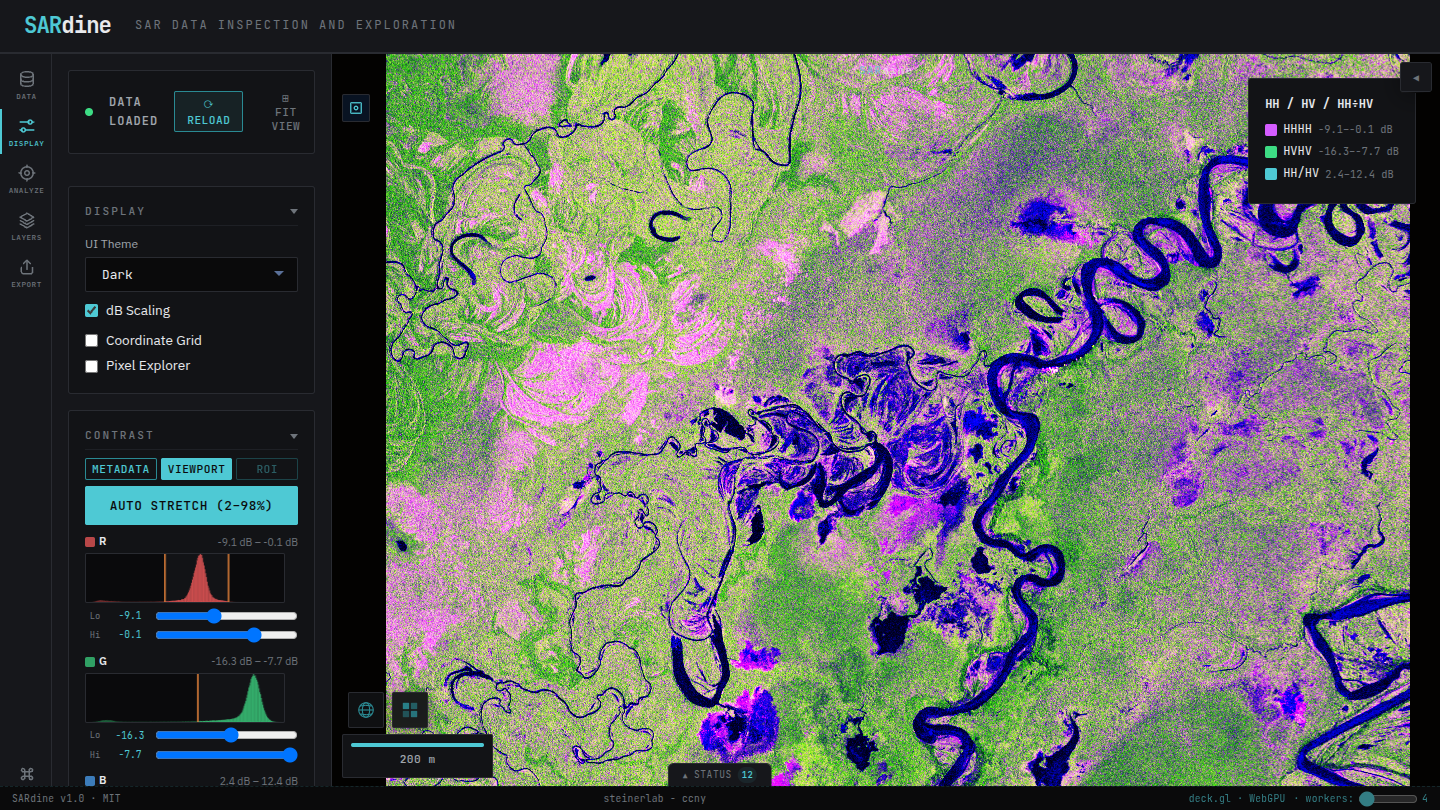
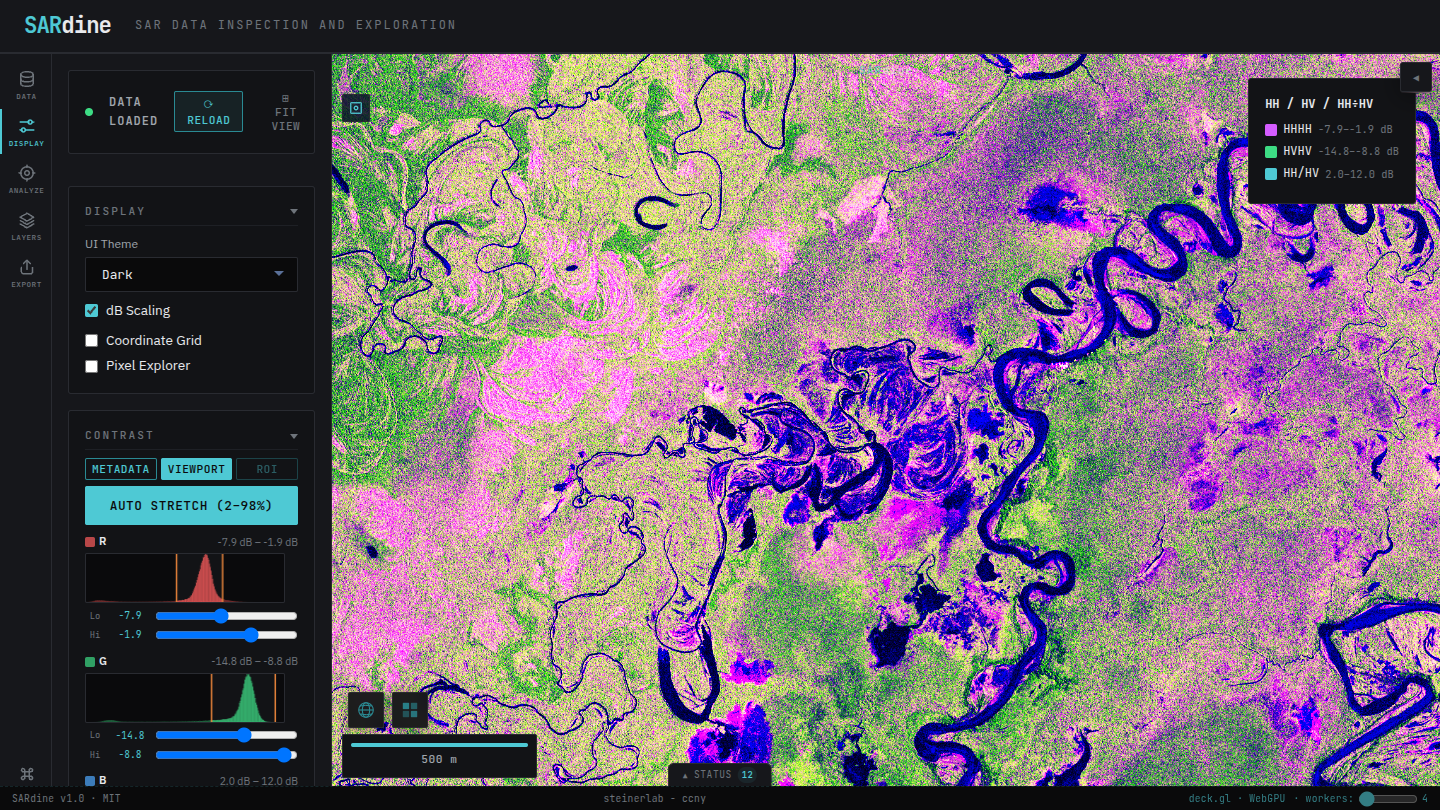
M-SARDINE: hero streams the full-frame 20 m pair (~1 GB) from Hugging Face
The gee-whiz is the file size now: the README hero opens the whole
240×270 km Pacaya frame at native 20 m — a ~1 GB dual-pol COG pair on
huggingface.co/datasets/nicksteiner/sardine-demo-data — and the browser
Range-reads only ~36 MB to first paint (measured), c/z landing on the
same Ucayali framing as before with full pan/zoom headroom.

- proxy.js: huggingface.co/hf.co added to the CORS-direct allowlist so
  hosted builds fetch HF resolve URLs directly instead of 403ing through
  the NASA-only worker (GitHub release assets were tried first and serve
  no CORS — kept as a download mirror on release demo-data-pacaya)
- RGB initial contrast: ±2σ(dB) floored at ±3 dB — coarsest-overview σ
  underestimates scene variance on big frames and oversaturated the render
- README hero copy + screenshot updated; demo/README.md documents the
  HF-hosted tier; the small Pages pair stays as same-origin fallback

diff --git a/app/main.jsx b/app/main.jsx
@@ -2573,8 +2573,12 @@ function App() {
             const chDef = preset.channels[ch];
             if (chDef?.dataset && data.bandStats[chDef.dataset]) {
               const s = data.bandStats[chDef.dataset];
+              // ±2σ in dB, floored at ±3 dB — overview-derived σ underestimates
+              // scene variance on large frames (the coarsest overview averages
+              // away speckle AND texture), which oversaturates the render.
+              const half = Math.max(2 * s.sample_stddev_db, 3);
               lims[ch] = useDb && Number.isFinite(s.mean_db)
-                ? [s.mean_db - 2 * s.sample_stddev_db, s.mean_db + 2 * s.sample_stddev_db]
+                ? [s.mean_db - half, s.mean_db + half]
                 : [Math.max(0, s.mean_value - 2 * s.sample_stddev), s.mean_value + 2 * s.sample_stddev];
             } else if (chDef?.datasets && chDef.datasets.length === 2) {
               const s0 = data.bandStats[chDef.datasets[0]];

diff --git a/src/utils/proxy.js b/src/utils/proxy.js
@@ -57,6 +57,10 @@ function needsProxy(url) {
       'capella-open-data.s3.amazonaws.com',
       'sentinel-cogs.s3.us-west-2.amazonaws.com',
       'overturemaps-us-west-2.s3.us-west-2.amazonaws.com',
+      // Hugging Face resolve URLs (demo data): CORS * + Range, including
+      // the cas-bridge/CDN hosts the resolve endpoint redirects to.
+      'huggingface.co',
+      'hf.co',
     ];
     if (directOK.some(h => u.hostname.endsWith(h))) return false;
     return true;

diff --git a/README.md b/README.md
@@ -19,9 +19,9 @@
 [![WebGL2](https://img.shields.io/badge/WebGL2-GPU--accelerated-blueviolet)](https://caniuse.com/webgl2)
 [![No Server](https://img.shields.io/badge/runs-in--browser-brightgreen)](https://github.com/nicksteiner/sardine)
 
-[![SARdine viewer — NISAR GCOV dual-pol RGB composite over the Pacaya-Samiria floodplain](docs/SARdine_window.png)](https://nicksteiner.github.io/sardine/?cog=demo/pacaya_hh.tif,demo/pacaya_hv.tif&comp=dual-pol-h&mode=rgb&db=1&stretch=sigmoid)
+[![SARdine viewer — NISAR GCOV dual-pol RGB composite over the Pacaya-Samiria floodplain](docs/SARdine_window.png)](https://nicksteiner.github.io/sardine/?cog=https%3A%2F%2Fhuggingface.co%2Fdatasets%2Fnicksteiner%2Fsardine-demo-data%2Fresolve%2Fmain%2Fpacaya_full_hh.tif,https%3A%2F%2Fhuggingface.co%2Fdatasets%2Fnicksteiner%2Fsardine-demo-data%2Fresolve%2Fmain%2Fpacaya_full_hv.tif&comp=dual-pol-h&mode=rgb&db=1&stretch=sigmoid&c=12233,7038&z=-1.5)
 
-*▲ Click the screenshot to open this view **instantly** — a dual-pol RGB composite (HH / HV / HH÷HV) of NISAR L-band backscatter over the Ucayali floodplain in Pacaya-Samiria, Peru, served as a pre-staged ~18 MB Cloud Optimized GeoTIFF subset. No login, no search: pixels in a couple of seconds. To stream the **same region live from the NASA archive** (CMR granule search + chunked HDF5 range reads, free [Earthdata token](https://urs.earthdata.nasa.gov/profile) required), use [this link](https://nicksteiner.github.io/sardine/?bbox=-74.69,-5.55,-74.15,-5.01&db=1&min=-18&max=0).*
+*▲ Click the screenshot and your browser starts streaming a **full NISAR frame at native 20 m resolution — a ~1 GB Cloud Optimized GeoTIFF pair** — rendered as a dual-pol RGB composite (HH / HV / HH÷HV) over the Ucayali floodplain in Pacaya-Samiria, Peru. No login, no server, no download: HTTP Range reads fetch only the tiles you look at (a few MB), so it opens in seconds — then pan and zoom anywhere in the 240×270 km frame down to full detail. To stream the **same region live from the NASA archive as HDF5** (CMR granule search + chunked range reads, free [Earthdata token](https://urs.earthdata.nasa.gov/profile) required), use [this link](https://nicksteiner.github.io/sardine/?bbox=-74.69,-5.55,-74.15,-5.01&db=1&min=-18&max=0).*
 
 </div>
 

diff --git a/app/public/demo/README.md b/app/public/demo/README.md
@@ -1,8 +1,16 @@
 # Hosted demo COGs
 
-Pre-staged subsets served by GitHub Pages so the README hero link renders
-instantly — no Earthdata Login, no CMR search, no HDF5 metadata walk. The
-live-streaming NISAR links in the README exercise the real DAAC path.
+Demo data behind the README hero link — no Earthdata Login, no CMR search,
+no HDF5 metadata walk. The live-streaming NISAR links in the README exercise
+the real DAAC path.
+
+**The hero itself streams the full-frame 20 m pair (~1 GB) hosted on
+Hugging Face**: [nicksteiner/sardine-demo-data](https://huggingface.co/datasets/nicksteiner/sardine-demo-data)
+(`pacaya_full_{hh,hv}.tif`, same granule as below, whole 240×270 km frame,
+COG overview pyramid so first paint reads only a few MB). A copy is attached
+to the GitHub release `demo-data-pacaya` for download (release assets don't
+serve CORS, so they can't be streamed by the browser). The small subset pair
+in this folder is kept as a light same-origin fallback.
 
 ## pacaya_hh.tif / pacaya_hv.tif
 
